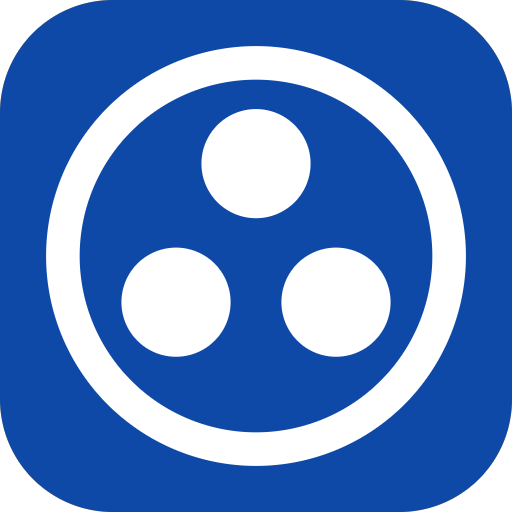
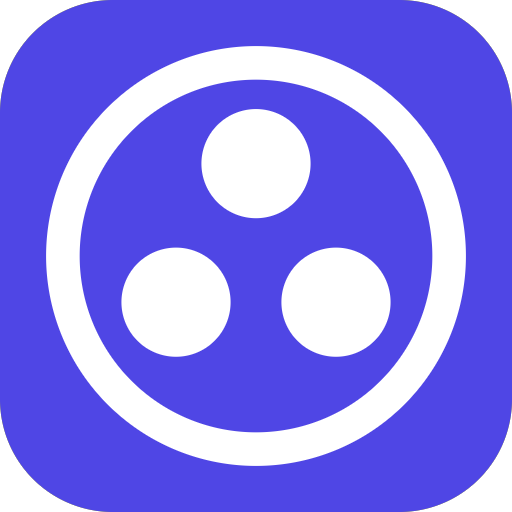
feat(ui): 강조색을 인디고로 바꾸고 회색에서 탁함을 걷어낸다
대비 기준만 보고 고른 색이라 안전하긴 했지만 서식 문서처럼 보였다.
진한 파랑(#1257c7)은 채도가 높고 어두워 무거웠고, 회색(#5b6470)은
푸른기가 돌면서 탁했다. 배지의 #96601b 는 주황이 아니라 갈색으로 읽혔다.

강조색을 인디고(#4f46e5)로 옮긴다. 같은 밝기의 파랑보다 덜 딱딱하다.
회색은 slate 계열로 바꿔 맑게 하되 완전한 무채색으로 두지는 않는다 —
인디고 옆에서 순회색은 탁해 보이고, 푸른기가 세면 회색이 색으로 읽힌다.
교체·신규 배지는 밝고 선명한 값으로 올려 알약 모양이 살아나게 했다.

라이트·다크 58개 조합을 계산해 WCAG 기준을 모두 넘겼다.
직전까지 시안이던 다크 값도 이번에 확정해 함께 검증했다.

앱 아이콘과 파비콘, 매니페스트의 theme_color, 상태바 색도 함께 옮긴다.
UI 만 바꾸면 홈 화면 아이콘만 옛 파랑으로 남아 어긋난다.

세 후보(맑은 파랑 / 부드러운 인디고 / 차분한 청록)를 실제 화면으로
만들어 비교한 뒤 고른 결과다.

diff --git a/src/styles/tokens.css b/src/styles/tokens.css
@@ -67,59 +67,63 @@
    * 세 층으로 나눈다. 층이 다르면 밝기가 다르므로 테두리를 진하게 긋지 않아도 경계가 보인다.
    *   bg        페이지 바탕 — 가장 뒤
    *   surface   그 위에 얹히는 면 — 카드, 앱바, 시트, 버튼
-   *   surface-2 그보다 안으로 들어간 면 — 눌린 상태, 칩, 트랙, 코드 블록
+   *   surface-2 그보다 안으로 들어간 면 — 칩, 트랙, 코드 블록, hover
    * 라이트도 바탕을 살짝 회색으로 두어 흰 카드가 떠 보이게 한다.
+   *
+   * 회색에는 강조색과 같은 쪽으로 아주 옅은 푸른기를 준다.
+   * 완전한 무채색은 인디고 옆에서 탁해 보이고, 푸른기가 세면 회색이 색으로 읽힌다.
    */
-  --bg: light-dark(#f1f4f7, #14171a);
-  --surface: light-dark(#ffffff, #1d2126);
-  --surface-2: light-dark(#e8edf2, #262c33);
+  --bg: light-dark(#f8fafc, #0f172a);
+  --surface: light-dark(#ffffff, #1e293b);
+  --surface-2: light-dark(#f1f5f9, #334155);
 
   /*
    * 눌린 순간의 바탕. surface-2 보다 한 단계 더 들어간다.
    * 다크에서는 반대로 밝아진다 — 어두운 화면에서는 밝아지는 쪽이 눌림으로 읽힌다.
    */
-  --pressed: light-dark(#dbe2ea, #333b45);
+  --pressed: light-dark(#e2e8f0, #415068);
 
   /* 층 사이 밝기 차이가 경계를 만드므로 테두리는 거들기만 한다 */
-  --border: light-dark(#e2e8ef, #2f363e);
-  /* 입력칸·버튼처럼 조작하는 요소의 경계. WCAG 1.4.11 을 지켜 3:1 이상 (3.42 / 3.35) */
-  --border-strong: light-dark(#818c99, #68737f);
+  --border: light-dark(#e6ebf1, #2c3a4e);
+  /* 입력칸·버튼처럼 조작하는 요소의 경계. WCAG 1.4.11 을 지켜 3:1 이상 (3.43 / 4.29) */
+  --border-strong: light-dark(#7a8ca6, #7d8ca3);
 
-  --text: light-dark(#16191d, #e9ecef); /* 17.6 / 15.2 */
-  --text-muted: light-dark(#5b6470, #a3adb8); /* 6.0 / 7.9 */
+  --text: light-dark(#0f172a, #f1f5f9); /* 17.9 / 13.4 */
+  --text-muted: light-dark(#5c6b80, #a7b4c4); /* 5.4 / 6.9 */
   /* 다크의 accent 는 밝아서 흰 글자가 얹히지 않는다. 어두운 글자를 쓴다 */
-  --text-on-accent: light-dark(#ffffff, #0b1220); /* 6.5 / 7.8 */
+  --text-on-accent: light-dark(#ffffff, #14163a); /* 6.3 / 8.7 */
 
-  --accent: light-dark(#1257c7, #6fa8ff); /* 6.5 / 7.5 */
-  --accent-hover: light-dark(#0f49a8, #8ab9ff);
-  --accent-active: light-dark(#0d3d8f, #a5caff);
-  --accent-soft: light-dark(#e8f0fd, #1b2c47);
+  /* 강조색은 인디고. 같은 밝기의 파랑보다 덜 딱딱하다. */
+  --accent: light-dark(#4f46e5, #a5b4fc); /* 6.3 / 7.3 */
+  --accent-hover: light-dark(#4338ca, #c7d2fe);
+  --accent-active: light-dark(#3730a3, #e0e7ff);
+  --accent-soft: light-dark(#eef2ff, #2c2f63);
 
-  --danger: light-dark(#c0271f, #ff8a80); /* 5.9 / 7.9 */
-  --danger-hover: light-dark(#a11f18, #ffa39b);
-  --danger-active: light-dark(#85180f, #ffbcb5);
-  --danger-soft: light-dark(#fdecea, #3a1f1c);
-  /* 밝은 산호색 위에 흰 글씨를 얹으면 대비가 2.3:1 밖에 안 되므로 어두운 글자를 쓴다 */
-  --text-on-danger: light-dark(#ffffff, #2a1210); /* 5.9 / 7.7 */
+  --danger: light-dark(#c81e1e, #fca5a5); /* 5.7 / 7.7 */
+  --danger-hover: light-dark(#a91717, #fecaca);
+  --danger-active: light-dark(#8f1212, #fee2e2);
+  --danger-soft: light-dark(#fee2e2, #3f1618);
+  /* 다크의 danger 는 밝은 살구색이라 흰 글자가 얹히지 않는다 */
+  --text-on-danger: light-dark(#ffffff, #2a0f0f); /* 5.7 / 9.4 */
 
-  --success: light-dark(#1b7a3e, #6fd694);
-  --success-soft: light-dark(#e7f5ec, #16301f);
-  --warn: light-dark(#96601b, #e5b567);
-  --warn-soft: light-dark(#fdf1de, #33280f);
+  --success: light-dark(#047857, #34d399);
+  --success-soft: light-dark(#d1fae5, #06301f);
+  --warn: light-dark(#b45309, #fbbf24);
+  --warn-soft: light-dark(#fef3c7, #3d2c06);
 
-  --focus-ring: light-dark(#1257c7, #8ab9ff);
-  --overlay: light-dark(rgba(16, 20, 26, 0.5), rgba(0, 0, 0, 0.6));
+  --focus-ring: light-dark(#4f46e5, #a5b4fc);
+  --overlay: light-dark(rgba(15, 23, 42, 0.5), rgba(0, 0, 0, 0.6));
 
   /*
    * 그림자. 오프셋과 흐림은 두 모드가 같고 색만 달라진다.
    * 다크에서는 두 번째 레이어를 투명하게 두어 한 겹으로 떨어뜨린다 —
    * 어두운 배경에서는 그림자보다 표면 밝기 차이가 깊이를 만든다.
    */
-  --shadow-1: 0 1px 2px light-dark(rgba(16, 20, 26, 0.08), rgba(0, 0, 0, 0.4)),
-    0 1px 3px light-dark(rgba(16, 20, 26, 0.06), transparent);
-  --shadow-2: 0 4px 12px light-dark(rgba(16, 20, 26, 0.12), rgba(0, 0, 0, 0.5)),
-    0 2px 4px light-dark(rgba(16, 20, 26, 0.08), transparent);
-  --shadow-3: 0 12px 32px light-dark(rgba(16, 20, 26, 0.18), rgba(0, 0, 0, 0.6));
+  --shadow-1: 0 1px 2px light-dark(rgba(15, 23, 42, 0.07), rgba(0, 0, 0, 0.4)),
+    0 1px 3px light-dark(rgba(15, 23, 42, 0.05), transparent);
+  --shadow-2: 0 4px 12px light-dark(rgba(15, 23, 42, 0.1), rgba(0, 0, 0, 0.5)),
+    0 2px 4px light-dark(rgba(15, 23, 42, 0.06), transparent);
+  --shadow-3: 0 12px 32px light-dark(rgba(15, 23, 42, 0.16), rgba(0, 0, 0, 0.6));
 
   /* ---- 글꼴 ---- */
   --font-sans: -apple-system, BlinkMacSystemFont, 'Segoe UI', Roboto, 'Noto Sans KR',

diff --git a/index.html b/index.html
@@ -4,8 +4,9 @@
     <meta charset="UTF-8" />
     <meta name="viewport" content="width=device-width, initial-scale=1, viewport-fit=cover" />
     <meta name="description" content="현장에서 공사 케이블 물량과 장비 목록을 정리하고 텍스트·엑셀로 공유하는 노트" />
+    <!-- 상태바 바로 아래가 앱바이므로 앱바 색(--surface)에 맞춘다 -->
     <meta name="theme-color" content="#ffffff" media="(prefers-color-scheme: light)" />
-    <meta name="theme-color" content="#14171a" media="(prefers-color-scheme: dark)" />
+    <meta name="theme-color" content="#1e293b" media="(prefers-color-scheme: dark)" />
 
     <link rel="icon" href="./favicon.svg" type="image/svg+xml" />
     <link rel="icon" href="./favicon-48.png" sizes="48x48" type="image/png" />

diff --git a/vite.config.ts b/vite.config.ts
@@ -26,8 +26,9 @@ export default defineConfig({
         scope: base,
         display: 'standalone',
         orientation: 'portrait',
-        background_color: '#ffffff',
-        theme_color: '#0f49a8',
+        // 설치 후 스플래시 화면 색. 앱의 바탕(--bg)·강조색(--accent)과 맞춘다.
+        background_color: '#f8fafc',
+        theme_color: '#4f46e5',
         icons: [
           { src: 'icon-192.png', sizes: '192x192', type: 'image/png', purpose: 'any' },
           { src: 'icon-512.png', sizes: '512x512', type: 'image/png', purpose: 'any' },
